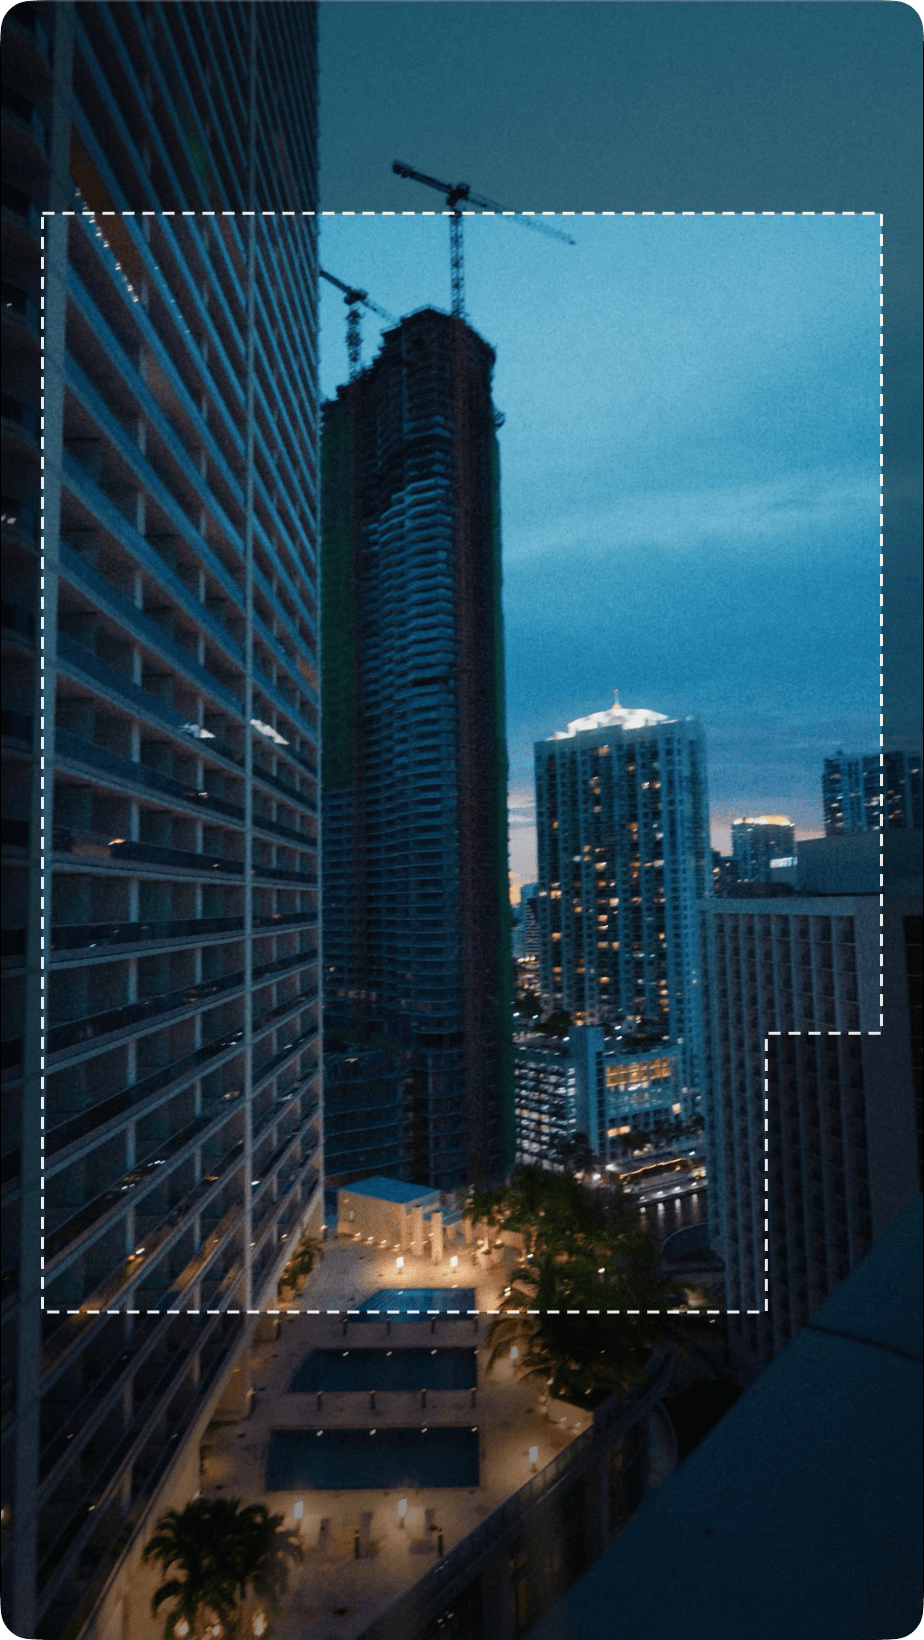
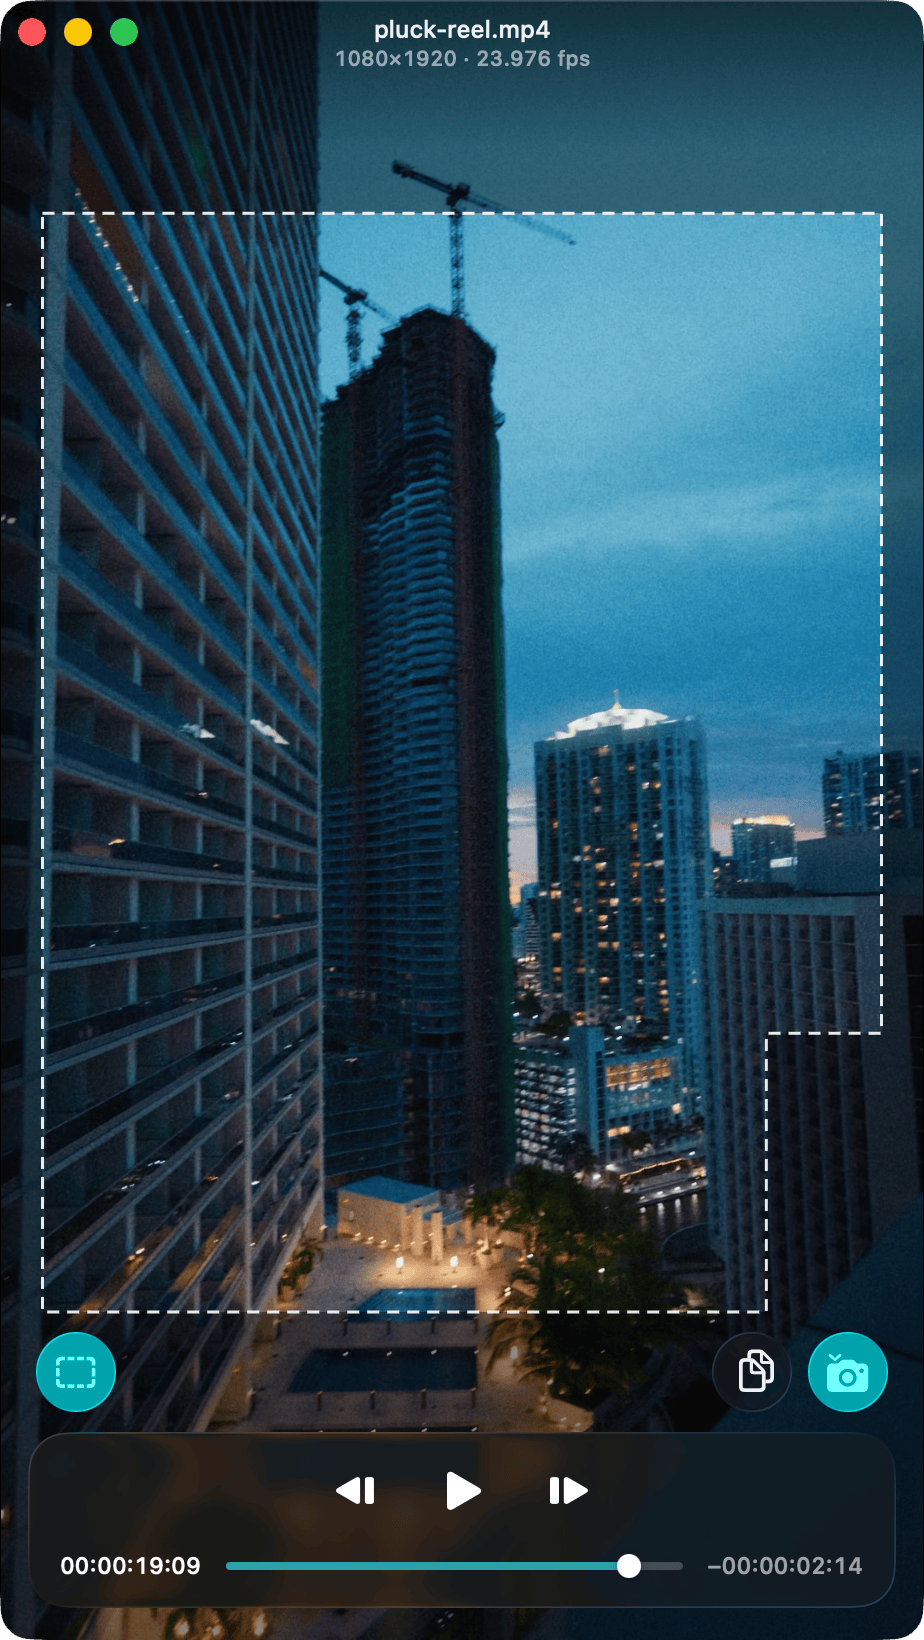
Show Pluck's playback controls in the README screenshot

diff --git a/README.md b/README.md
@@ -9,7 +9,7 @@
 </p>
 
 <p align="center">
-  <img src="docs/screenshot.png" width="420" alt="Pluck playing a vertical video with the Reels safe zone guide">
+  <img src="docs/screenshot.png" width="420" alt="Pluck playing a vertical video with the Reels safe zone guide, above its playback controls and scrubber">
 </p>
 
 ## Features
